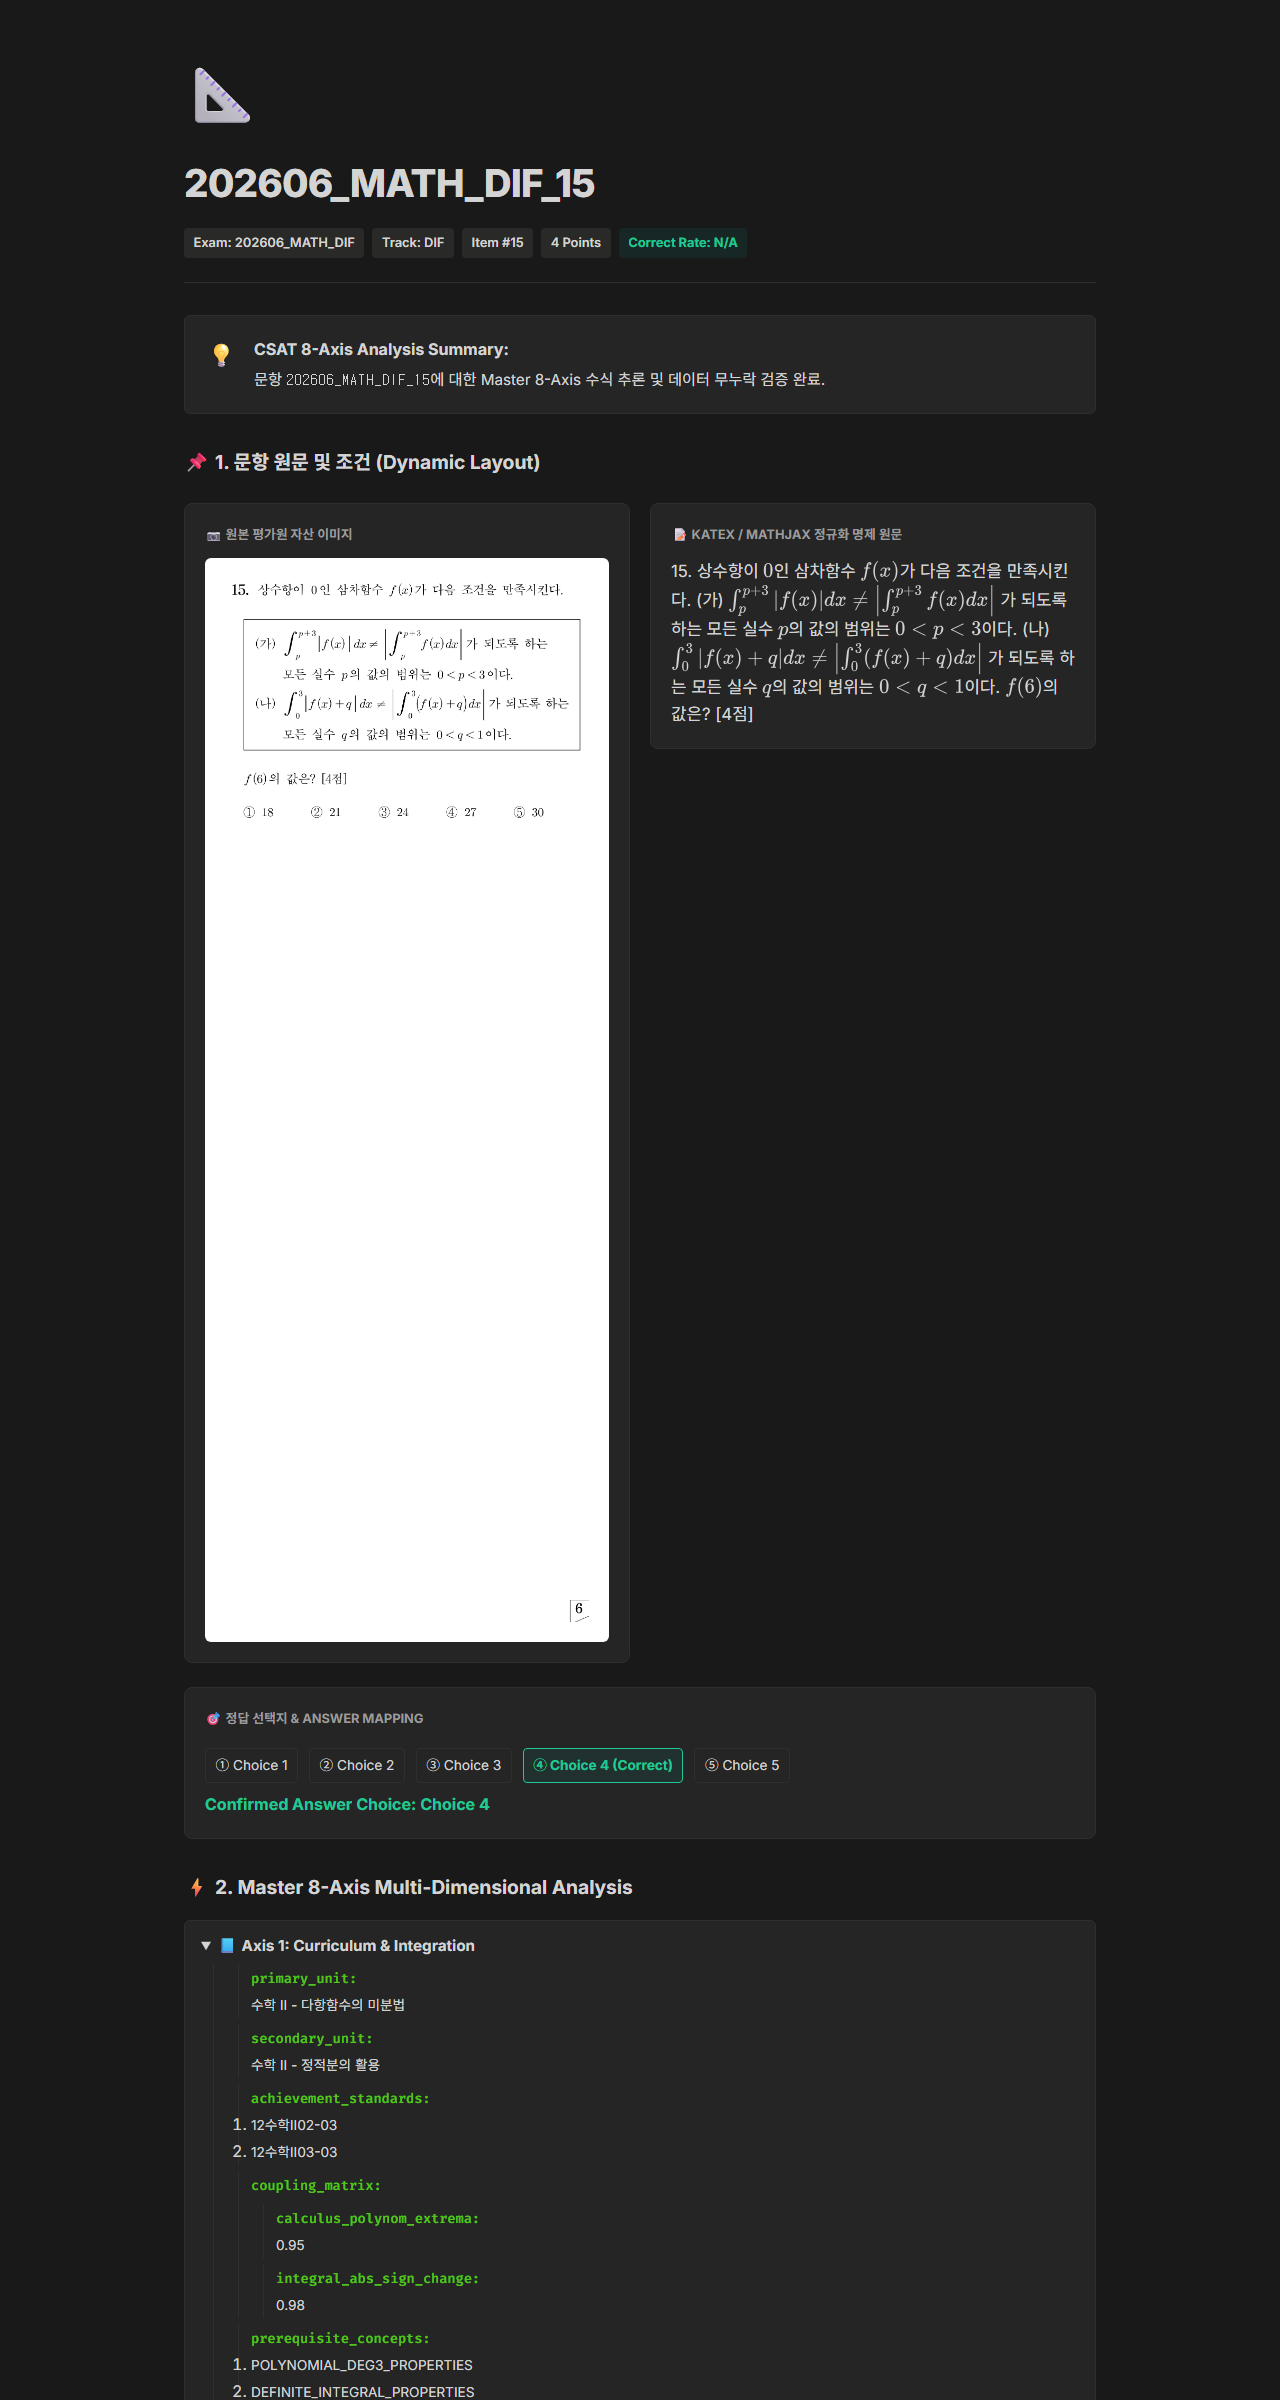
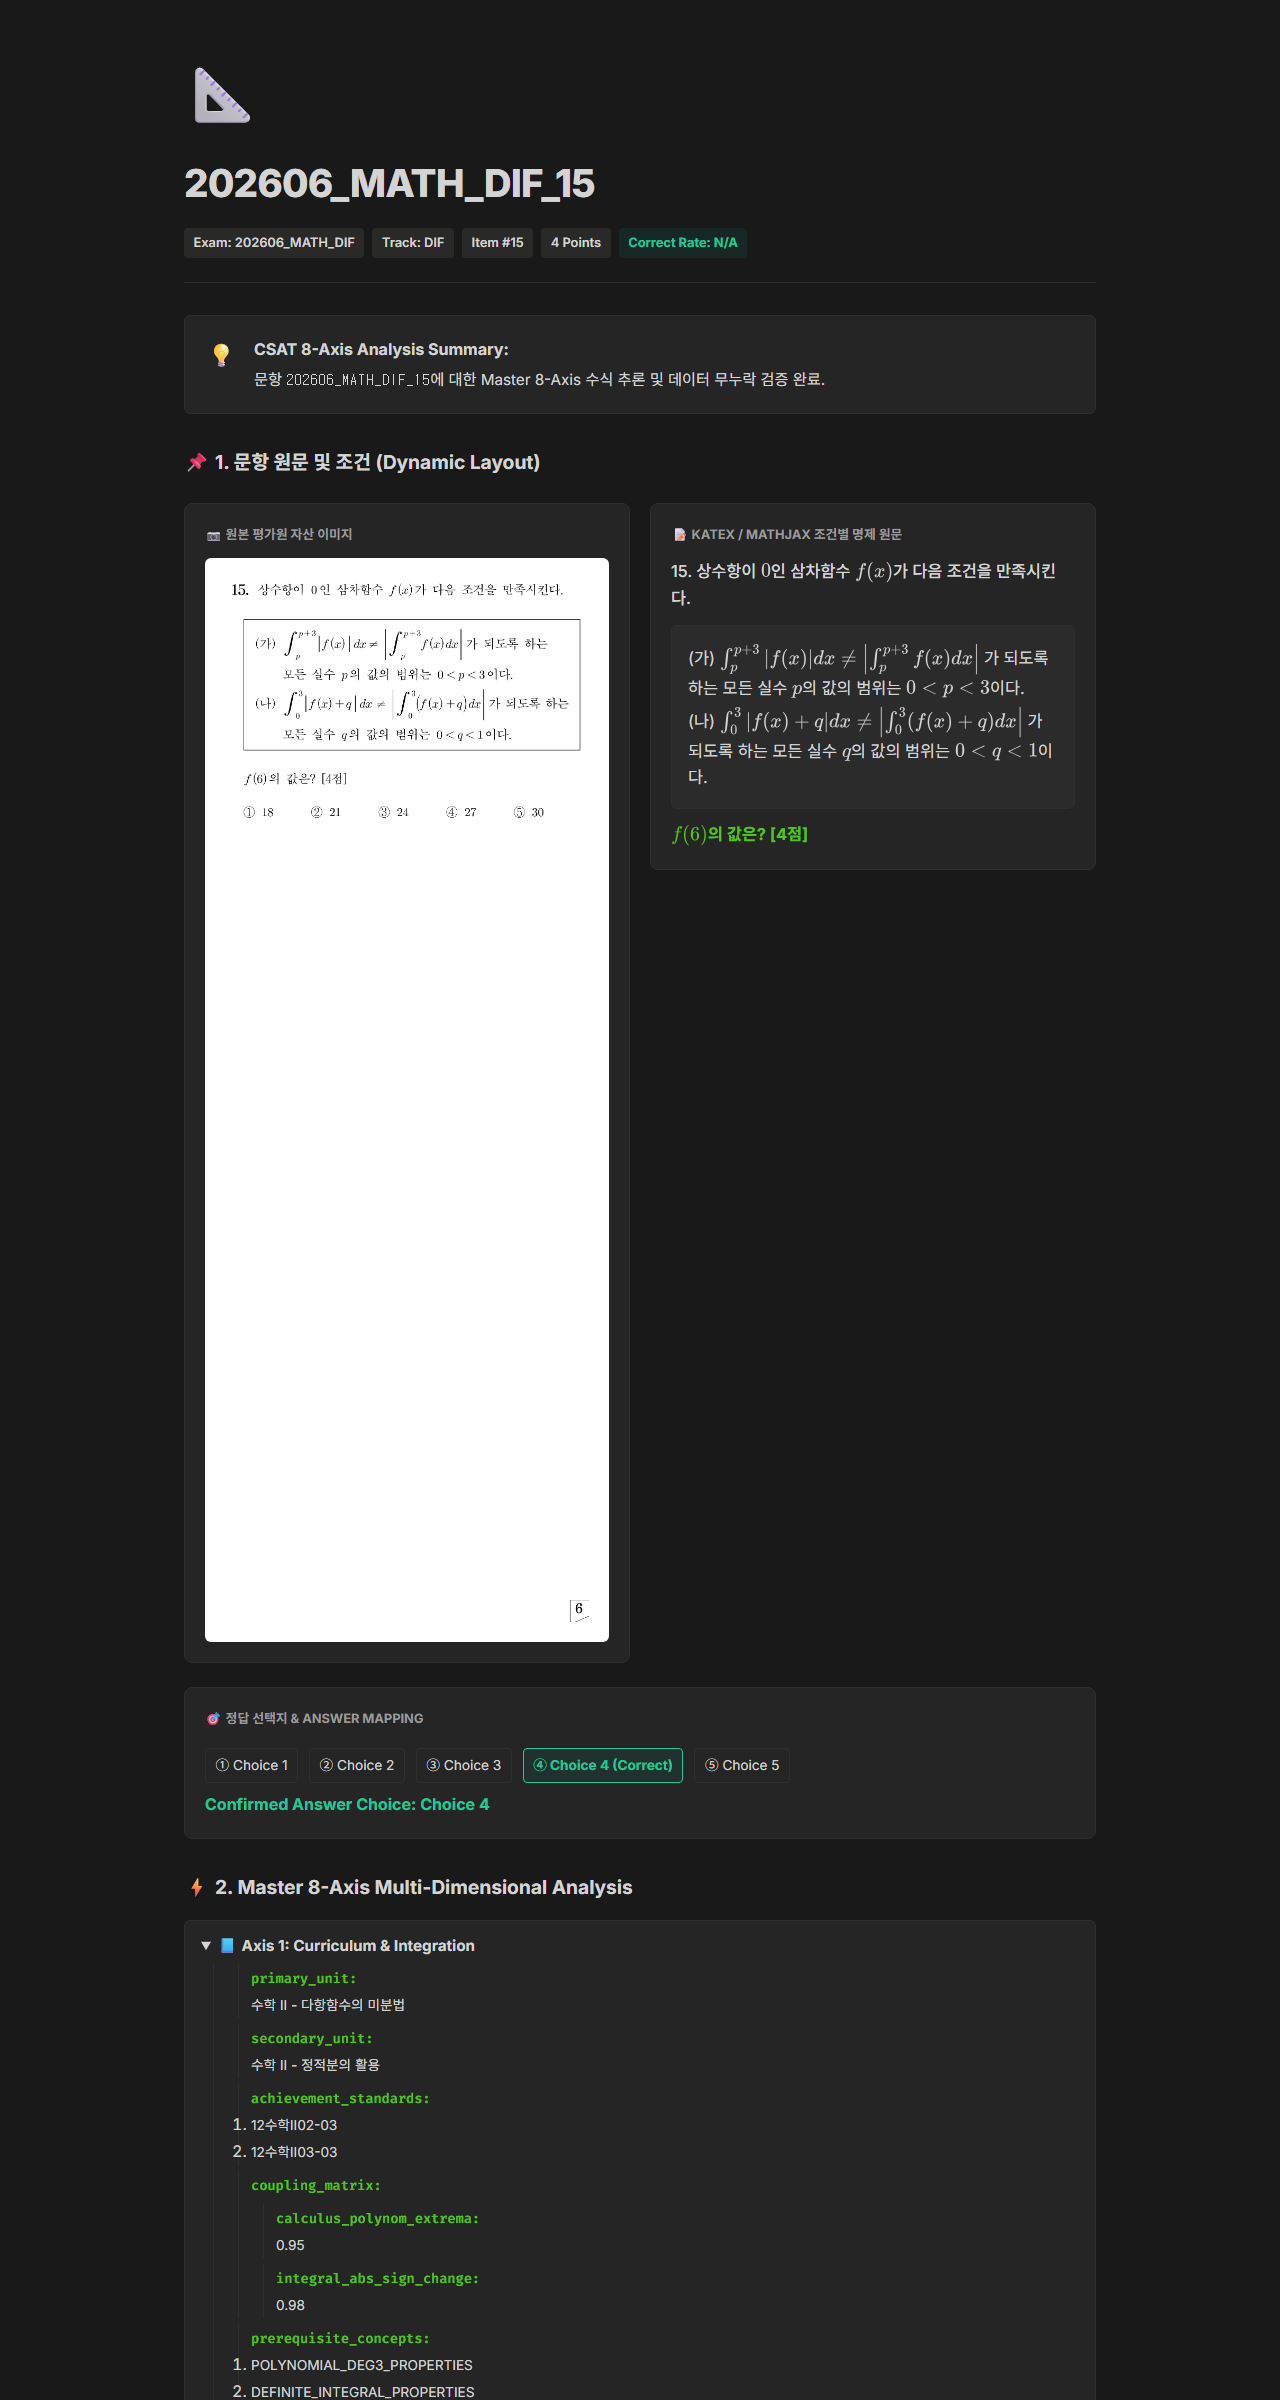
feat: Implement structured condition block formatting (가, 나) for Notion Workspace HTML builder

Changed region(s): [[0.5312, 0.2188, 0.8438, 0.3125], [0.5625, 0.3438, 0.625, 0.375]]

diff --git a/storage/html_reports/202606_MATH_DIF_15_report.html b/storage/html_reports/202606_MATH_DIF_15_report.html
@@ -107,8 +107,36 @@
         .card-label { font-size: 0.8rem; font-weight: 700; color: var(--text-muted); margin-bottom: 0.75rem; text-transform: uppercase; }
 
         .math-box {
-            font-size: 1.05rem;
+            font-size: 1.02rem;
+            line-height: 1.7;
+        }
+
+        .intro-line {
+            margin-bottom: 0.75rem;
+            font-weight: 500;
+        }
+
+        .condition-block {
+            background: rgba(0, 0, 0, 0.03);
+            border: 1px solid var(--border-notion);
+            border-radius: 6px;
+            padding: 0.75rem 1rem;
+            margin: 0.75rem 0;
+        }
+
+        @media (prefers-color-scheme: dark) {
+            .condition-block { background: rgba(255, 255, 255, 0.03); }
+        }
+
+        .condition-item {
+            margin: 0.4rem 0;
             line-height: 1.6;
+        }
+
+        .target-line {
+            margin-top: 0.75rem;
+            font-weight: 700;
+            color: var(--accent-blue);
         }
 
         .choice-tag {
@@ -196,7 +224,7 @@
 [CHOICE_4] 
 [CHOICE_5] 
 6">
-                    <div class="card-label">📝 KaTeX / MathJax 정규화 명제 원문</div>
+                    <div class="card-label">📝 KaTeX / MathJax 조건별 명제 원문</div>
                     <div class="math-box" data-raw-latex="15. 상수항이 인 삼차함수 가 다음 조건을 만족시킨다.
 (가) 
 
@@ -220,10 +248,7 @@
 [CHOICE_3] 
 [CHOICE_4] 
 [CHOICE_5] 
-6">15. 상수항이 $0$인 삼차함수 $f(x)$가 다음 조건을 만족시킨다.
-(가) $\int_{p}^{p+3} |f(x)| dx \neq \left| \int_{p}^{p+3} f(x) dx \right|$ 가 되도록 하는 모든 실수 $p$의 값의 범위는 $0 &lt; p &lt; 3$이다.
-(나) $\int_{0}^{3} |f(x)+q| dx \neq \left| \int_{0}^{3} (f(x)+q) dx \right|$ 가 되도록 하는 모든 실수 $q$의 값의 범위는 $0 &lt; q &lt; 1$이다.
-$f(6)$의 값은? [4점]</div>
+6"><div class="intro-line">15. 상수항이 $0$인 삼차함수 $f(x)$가 다음 조건을 만족시킨다.</div><div class="condition-block"><div class="condition-item">(가)  $\int_{p}^{p+3} |f(x)| dx \neq \left| \int_{p}^{p+3} f(x) dx \right|$ 가 되도록 하는 모든 실수 $p$의 값의 범위는 $0 &lt; p &lt; 3$이다.</div><div class="condition-item">(나)  $\int_{0}^{3} |f(x)+q| dx \neq \left| \int_{0}^{3} (f(x)+q) dx \right|$ 가 되도록 하는 모든 실수 $q$의 값의 범위는 $0 &lt; q &lt; 1$이다.</div></div><div class="target-line">$f(6)$의 값은?  [4점]</div></div>
                 </div>
             </div>
             

diff --git a/pipeline/report_generator/html_builder.py b/pipeline/report_generator/html_builder.py
@@ -10,6 +10,7 @@ import sys
 import io
 import json
 import html
+import re
 import tempfile
 from html.parser import HTMLParser
 from typing import Dict, List, Any, Tuple, Set, Optional
@@ -233,6 +234,45 @@ def clean_hwp_pua_symbols(text: str) -> str:
             res.append(ch)
     return "".join(res)
 
+def format_latex_conditions(latex_str: str) -> str:
+    """Formats dense LaTeX question text into human-readable condition blocks."""
+    if not latex_str:
+        return ""
+    
+    text = latex_str.replace('\r\n', '\n').strip()
+    
+    # Split on (가), (나), (다), target expression, or newlines
+    raw_flat = text.replace('\n', ' ')
+    raw_flat = re.sub(r'(\([가-하]\))', r'\n\1 ', raw_flat)
+    raw_flat = re.sub(r'(\$?[fgh]\([0-9a-zA-Z]+\)\$?의\s*값은\?)', r'\n\1 ', raw_flat)
+    raw_flat = re.sub(r'(\[CHOICE_[1-5]\])', r'\n\1 ', raw_flat)
+    
+    lines = [l.strip() for l in raw_flat.split('\n') if l.strip()]
+
+    formatted_parts = []
+    condition_items = []
+    
+    for line in lines:
+        if re.match(r'^\([가-하]\)', line):
+            condition_items.append(f'<div class="condition-item">{html.escape(line)}</div>')
+        elif line.startswith('[CHOICE_'):
+            continue  # Rendered in dedicated choice card
+        elif '의 값은?' in line or '[4점]' in line or '[3점]' in line or '의 값은' in line:
+            if condition_items:
+                formatted_parts.append(f'<div class="condition-block">{"".join(condition_items)}</div>')
+                condition_items = []
+            formatted_parts.append(f'<div class="target-line">{html.escape(line)}</div>')
+        else:
+            if condition_items:
+                formatted_parts.append(f'<div class="condition-block">{"".join(condition_items)}</div>')
+                condition_items = []
+            formatted_parts.append(f'<div class="intro-line">{html.escape(line)}</div>')
+            
+    if condition_items:
+        formatted_parts.append(f'<div class="condition-block">{"".join(condition_items)}</div>')
+        
+    return "".join(formatted_parts)
+
 class HTMLReportBuilder:
     """
     Sample 09: Notion / Craft Workspace Aesthetic with Dynamic Adaptive Placement Engine.
@@ -264,7 +304,8 @@ class HTMLReportBuilder:
         axis2 = axes.get('Axis_2', {})
         normalized_latex = axis2.get('normalized_latex', '')
         
-        display_latex = normalized_latex if normalized_latex else clean_hwp_pua_symbols(latex_content)
+        display_raw = normalized_latex if normalized_latex else clean_hwp_pua_symbols(latex_content)
+        display_html = format_latex_conditions(display_raw)
 
         # Dynamic Layout Engine Construction
         dynamic_axes_tree = render_dynamic_tree(axes, key_name="axes")
@@ -286,16 +327,16 @@ class HTMLReportBuilder:
                     </div>
                 </div>
                 <div class="notion-card" data-key="latex_content" data-raw-latex="{html.escape(str(latex_content))}">
-                    <div class="card-label">📝 KaTeX / MathJax 정규화 명제 원문</div>
-                    <div class="math-box" data-raw-latex="{html.escape(str(latex_content))}">{html.escape(display_latex)}</div>
+                    <div class="card-label">📝 KaTeX / MathJax 조건별 명제 원문</div>
+                    <div class="math-box" data-raw-latex="{html.escape(str(latex_content))}">{display_html}</div>
                 </div>
             </div>
             """
         else:
             question_block = f"""
             <div class="notion-card full-width" data-key="latex_content" data-raw-latex="{html.escape(str(latex_content))}">
-                <div class="card-label">📝 KaTeX / MathJax 정규화 명제 원문</div>
-                <div class="math-box" data-raw-latex="{html.escape(str(latex_content))}">{html.escape(display_latex)}</div>
+                <div class="card-label">📝 KaTeX / MathJax 조건별 명제 원문</div>
+                <div class="math-box" data-raw-latex="{html.escape(str(latex_content))}">{display_html}</div>
             </div>
             """
 
@@ -415,8 +456,36 @@ class HTMLReportBuilder:
         .card-label {{ font-size: 0.8rem; font-weight: 700; color: var(--text-muted); margin-bottom: 0.75rem; text-transform: uppercase; }}
 
         .math-box {{
-            font-size: 1.05rem;
+            font-size: 1.02rem;
+            line-height: 1.7;
+        }}
+
+        .intro-line {{
+            margin-bottom: 0.75rem;
+            font-weight: 500;
+        }}
+
+        .condition-block {{
+            background: rgba(0, 0, 0, 0.03);
+            border: 1px solid var(--border-notion);
+            border-radius: 6px;
+            padding: 0.75rem 1rem;
+            margin: 0.75rem 0;
+        }}
+
+        @media (prefers-color-scheme: dark) {{
+            .condition-block {{ background: rgba(255, 255, 255, 0.03); }}
+        }}
+
+        .condition-item {{
+            margin: 0.4rem 0;
             line-height: 1.6;
+        }}
+
+        .target-line {{
+            margin-top: 0.75rem;
+            font-weight: 700;
+            color: var(--accent-blue);
         }}
 
         .choice-tag {{
